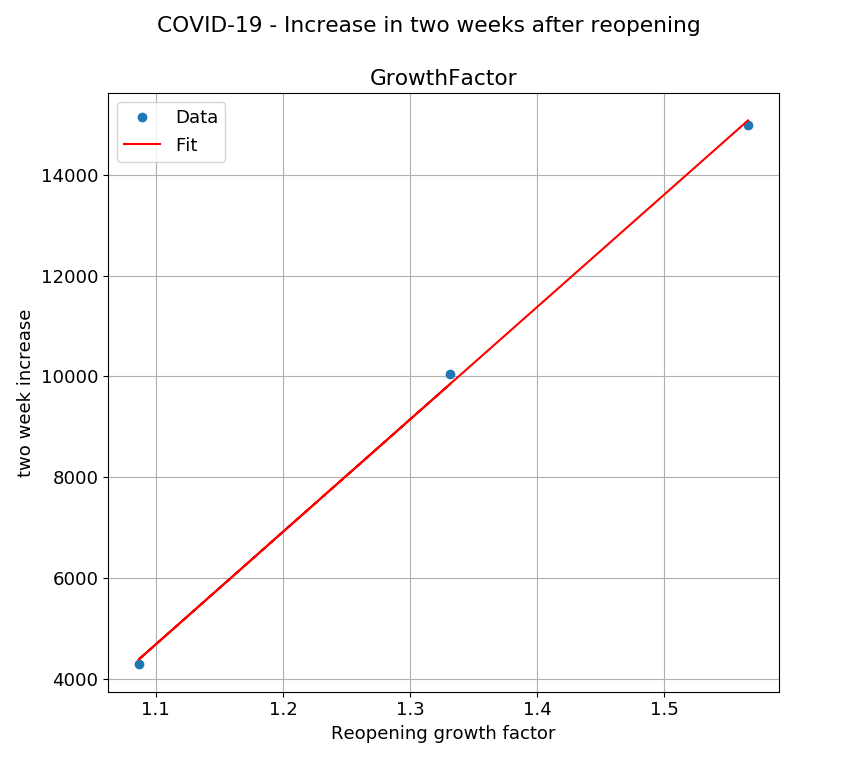
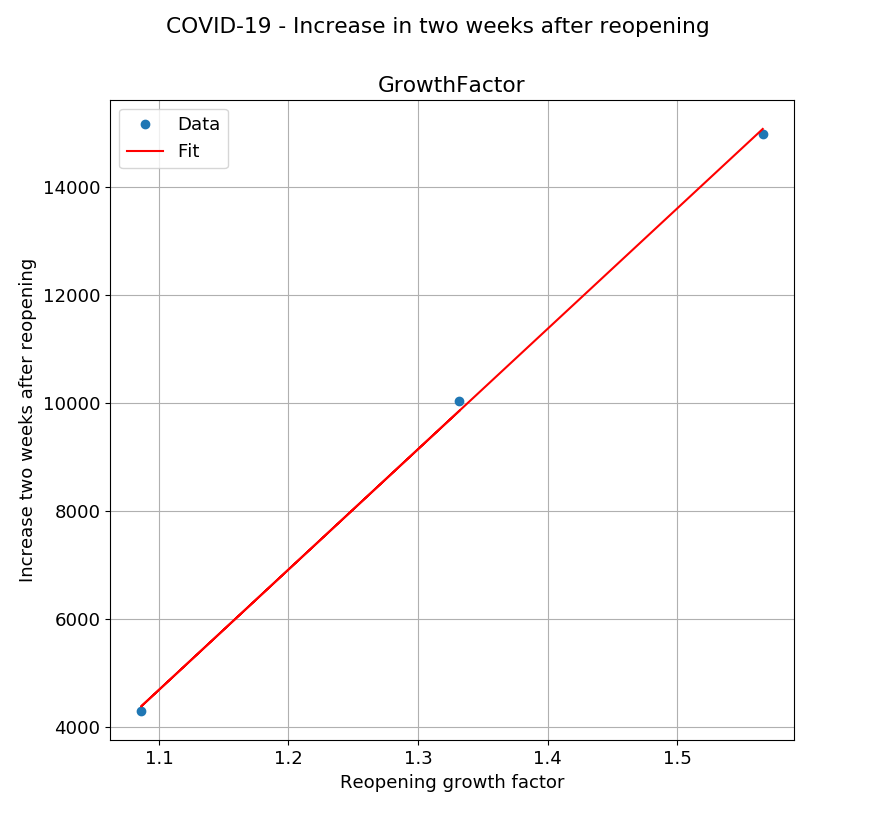
fixed plots

diff --git a/DI.py b/DI.py
@@ -96,7 +96,7 @@ ax4.hlines(y=1,xmin=daycount, xmax=-3,color='k',linestyle='-.',label="Inflection
 fig2 = plt.figure(figsize=plt.figaspect(1))
 fig2.suptitle('COVID-19 - Increase in two weeks after reopening ')
 ax21 = fig2.add_subplot(111)
-ax21.set_ylabel('two week increase')
+ax21.set_ylabel('Increase two weeks after reopening')
 ax21.set_xlabel('Reopening growth factor')
 ax21.title.set_text('GrowthFactor')
 ax21.grid(True)
